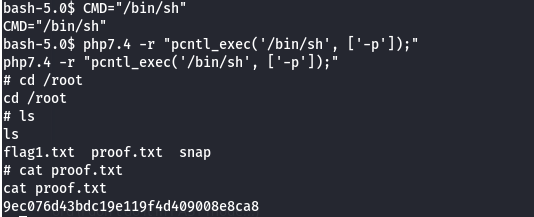
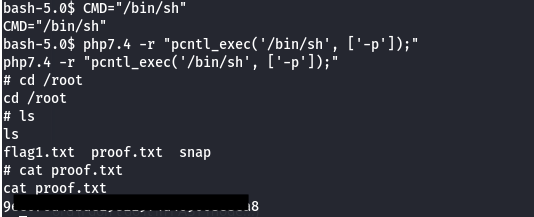
Astronaut

Changed region(s): [[0.0, 0.8848, 0.4794, 0.9954]]

diff --git a/_portfolio/portfolio-5.md b/_portfolio/portfolio-5.md
@@ -1,0 +1,58 @@
+---
+title: "Astronaut - Proving Grounds"
+excerpt: "A Writeup of the Astronaut Box from Proving Grounds<br/><img src='/images/Algernon/Logs.png'>"
+collection: portfolio
+---
+
+Ok we're back with another [Proving Grounds](https://www.offsec.com/labs/) box, also part of TJ Null's OSCP [lab prep list](https://docs.google.com/spreadsheets/u/1/d/1dwSMIAPIam0PuRBkCiDI88pU3yzrqqHkDtBngUHNCw8/htmlview#). 
+
+Let's dive in with a basic nmap scan which revealed these ports:
+
+PORT      STATE SERVICE
+22/tcp    open  ssh
+80/tcp    open  http
+
+Ny experience so far is that we usually don't find much with port 22, so I went to port 80 while I scanned for additional directories and ran a full port scan (which revealed nothing in the end). The web page reaveals an index with one directory which we follow to an admin page for a CMS called GRAV. 
+
+![Astronaut Directory](/images/Astronaut/80_landingpage.png){: .center-aligned width="800px"}
+
+![Astronaut Grav Admin](/images/Astronaut/grav_admin.png){: .center-aligned width="800px"}
+
+I think we have figured out why the box is called 'Astronaut.' I browsed around for a little bit, but there's not much there, not even a login page even though we're ostensibly looking at the admin page. We get the feroxbuster scan back and see a sub-directory called IP$/grav-admin/admin. That's a pretty good sign. Ultimately after looking through the source code and checking for any additional directories, I couldn't find much. I decided to check for public exploits, but I thought it made sense to try and brute force at the same time with a few basic options in Burp Intruder. That didn't last long. 
+
+![Astronaut Timeout](/images/Astronaut/timeout.png){: .center-aligned width="800px"}
+
+At least know we can pretty much ruling out any kind of brute force. We can see a couple of public exploits, but most of them either require Metasploit, which I'm trying to avoid, authentication, or involve vulnerabilities I wouldn't expect to see in a lab like this. Fortunately there is one for [Arbitrary YAML Write/Update](https://www.exploit-db.com/exploits/49973) that looks promising. Looking through the code it looks like we need to change some of the arguments. 
+
+![Astronaut Exploit](/images/Astronaut/exploit_changes.png){: .center-aligned width="800px"}
+
+And off we go. To be honest, I couldn;'t get this working for a while, but after I found nothing on the full port scan, I figured this had to be the path. I just had to figure out this error. 
+
+![Astronaut Exploit Fail](/images/Astronaut/exploit_fail.png){: .center-aligned width="800px"}
+
+The issue here for me was that the error didn't exactly point me in the right direction because the exploit never really got started. The problem was that the code says the target should look like this: 
+<br>
+|target= "http://192.168.1.2"|
+<br>
+
+But if you look further in the code, you can see this:
+<br>
+| r = s.get(target+"/admin") |
+<br>
+The code is going to add /admin to the target, but that won't actually take you anywhere because the IP$/admin directory doesn't exist. In fact the target needs to look like this:
+
+|target= "http://192.168.1.2/grav-admin"|
+
+It's also important not to add the trailing "/" which is actually counter to a previous lab where you must add the "/" yourself. Anyway, once we figured that out it was smooth sailing. We ran the code and caught the shell. 
+
+![Astronaut Exploit Fail](/images/Astronaut/shell_caught.png){: .center-aligned width="800px"}
+
+I enumerated manually for a while which turned out to be a little inefficient now that I think about it, given that only ports 22 and 80 were open. Not that I couldn't find ssh keys in the web directory, but they would have been much more likely to be in the home or root directories which I coudln't access. I wound up checking for running root processes and SUID binaries which wound up being key.  
+
+![Astronaut Exploit Fail](/images/Astronaut/suidphp.png){: .center-aligned width="800px"}
+
+What's that doing there? I checked [gtfobins](https://gtfobins.github.io/gtfobins/php/) and eventually ran the php command from there. 
+
+![Astronaut Exploit Fail](/images/Astronaut/proof.png){: .center-aligned width="800px"}
+
+And there we go. Once again, a pretty simple box, but it's good to get reminders abut reading exploit code carefully and checking for low hanging fruit first. On to the next one. 
